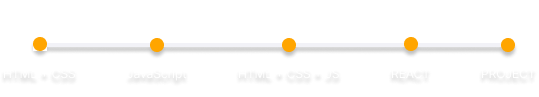
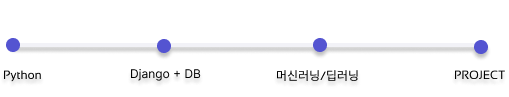
장고, 기디 파트 이미지 수정,로그인 페이지 추가

diff --git a/src/components/Apply/Apply.jsx b/src/components/Apply/Apply.jsx
@@ -1,0 +1,49 @@
+import React, { useState } from 'react';
+import RecruitmentForm from './RecruitmentForm';
+
+const Apply = () => {
+  const [activeForm, setActiveForm] = useState(null); // 초기값 null
+
+  const adminFields = [
+    { name: 'adminName', label: '이름', type: 'text', placeholder: '이름을 입력하세요' },
+    { name: 'adminContact', label: '연락처', type: 'text', placeholder: '연락처를 입력하세요' },
+    { name: 'adminPosition', label: '지원 분야', type: 'text', placeholder: '지원 분야를 입력하세요' },
+    { name: 'adminEmail', label: '이메일', type: 'email', placeholder: '이메일 주소를 입력하세요' },
+    { name: 'adminExperience', label: '경력', type: 'textarea', placeholder: '경력을 입력하세요' },
+  ];
+
+  const cubFields = [
+    { name: 'cubName', label: '이름', type: 'text', placeholder: '이름을 입력하세요' },
+    { name: 'cubAge', label: '학번', type: 'number', placeholder: '학번을 입력해주세요.' },
+    { name: 'cubInterest', label: '전공', type: 'text', placeholder: '전공을 입력하세요' },
+    { name: 'cubInterest', label: '관심 분야', type: 'text', placeholder: '관심 분야를 입력하세요' },
+    { name: 'cubEmail', label: '이메일', type: 'email', placeholder: '이메일 주소를 입력하세요' },
+    
+  ];
+
+
+  return (
+    <div className="flex flex-col items-center p-8">
+      <h1 className="text-3xl font-bold mb-8">모집 지원</h1>
+      <div className="flex space-x-4 mb-8">
+        <button
+          onClick={() => setActiveForm('admin')}
+          className={`px-6 py-3 rounded-lg border border-gray-300 hover:border-gray-500 ${activeForm === 'admin' ? 'bg-blue-500 text-white' : 'bg-white'}`}
+        >
+          운영진 모집
+        </button>
+        <button
+          onClick={() => setActiveForm('cub')}
+          className={`px-6 py-3 rounded-lg border border-gray-300 hover:border-gray-500 ${activeForm === 'cub' ? 'bg-blue-500 text-white' : 'bg-white'}`}
+        >
+          아기사자 모집
+        </button>
+      </div>
+      {activeForm && (
+        <RecruitmentForm title={activeForm === 'admin' ? '운영진 모집' : '아기사자 모집'} fields={activeForm === 'admin' ? adminFields : cubFields} />
+      )}
+    </div>
+  );
+};
+
+export default Apply;

diff --git a/src/components/Login/Login.jsx b/src/components/Login/Login.jsx
@@ -1,0 +1,44 @@
+import React from 'react';
+
+const LoginPage = () => {
+  return (
+    <div className="min-h-screen flex items-center justify-center bg-gray-100">
+      <div className="bg-white p-8 rounded shadow-md w-96">
+        <h2 className="text-3xl font-bold text-boldBlack mb-6 text-center">로그인</h2>
+        <form> {/* onSubmit 이벤트 제거 */}
+          <div className="mb-4">
+            <label htmlFor="email" className="block text-gray-700 font-medium mb-2">이메일</label>
+            <input
+              type="email"
+              id="email"
+              className="w-full px-3 py-2 border border-gray-300 rounded focus:outline-none focus:ring-realOrange focus:border-realOrange"
+              placeholder="이메일 주소를 입력하세요"
+            />
+          </div>
+          <div className="mb-6">
+            <label htmlFor="password" className="block text-gray-700 font-medium mb-2">비밀번호</label>
+            <input
+              type="password"
+              id="password"
+              className="w-full px-3 py-2 border border-gray-300 rounded focus:outline-none focus:ring-realOrange focus:border-realOrange"
+              placeholder="비밀번호를 입력하세요"
+            />
+          </div>
+          <div className="mb-4">
+            <button
+              type="button" 
+              className="w-full bg-realOrange text-white font-bold py-2 px-4 rounded hover:bg-orange-700 focus:outline-none focus:shadow-outline"
+            >
+              로그인
+            </button>
+          </div>
+          <div className="text-center text-gray-500 text-xs">
+            <p>계정이 없으신가요? <a href="#" className="text-realOrange hover:underline">회원가입</a></p>
+          </div>
+        </form>
+      </div>
+    </div>
+  );
+};
+
+export default LoginPage;

diff --git a/src/components/Apply/RecruitmentForm.jsx b/src/components/Apply/RecruitmentForm.jsx
@@ -1,0 +1,41 @@
+import React from 'react';
+
+const RecruitmentForm = ({ title, fields }) => {
+  const realOrange = '#FF7710';
+  const boldBlack = '#1C1B1A';
+  const accentYellow = '#FFC600';
+
+  return (
+    <div className="p-8 bg-white rounded-lg shadow-md w-full max-w-lg mx-auto">
+      <h2 className="text-2xl font-bold mb-4 text-center text-boldBlack">{title}</h2> {/* 폰트 색상 변경 */}
+      <form>
+        {fields.map((field, index) => (
+          <div key={index} className="mb-4">
+            <label htmlFor={field.name} className="block text-gray-700 font-bold mb-2">
+              {field.label}
+            </label>
+            <input
+              type={field.type}
+              id={field.name}
+              name={field.name}
+              className="shadow appearance-none border border-gray-300 rounded w-full py-2 px-3 text-gray-700 leading-tight focus:outline-none focus:shadow-outline"
+              placeholder={field.placeholder}
+              required
+            />
+          </div>
+        ))}
+        <div className="flex justify-center mt-6">
+          <button
+            type="submit"
+            className="bg-realOrange hover:bg-orange-700 text-white font-bold py-2 px-4 rounded focus:outline-none focus:shadow-outline" // 색상 변수 사용
+            style={{ backgroundColor: realOrange }} // 색상 변수 사용
+          >
+            제출
+          </button>
+        </div>
+      </form>
+    </div>
+  );
+};
+
+export default RecruitmentForm;

diff --git a/src/App.js b/src/App.js
@@ -10,6 +10,8 @@ import ArchivingDetail from "./pages/archivingDetail";
 import { BrowserRouter as Router, Routes, Route, Link } from "react-router-dom";
 import Members from "./components/Members";
 import About from "./about/About";
+import Apply from "./components/Apply/Apply";
+import Login from "./components/Login/Login";
 
 function App() {
   const [isMobileMenuOpen, setIsMobileMenuOpen] = useState(false);
@@ -45,6 +47,8 @@ function App() {
           <Route path="/about" element={<About />} />
           <Route path="/administrations" element={<Administration />} />
           <Route path="/members" element={<Members />} />
+          <Route path="/apply" element={<Apply />} />
+          <Route path="/Login" element={<Login />} />
         </Routes>
       </Layout>
     </Router>

diff --git a/src/components/Layout.jsx b/src/components/Layout.jsx
@@ -10,10 +10,10 @@ const Layout = ({ children }) => {
   };
 
   return (
-    <div className="container min-h-screen bg-grey-200 flex flex-col  max-w-4xl mx-auto p-5">
+    <div className="container min-h-screen text-black bg-gray-200 flex flex-col  max-w-4xl mx-auto p-5">
       
         <nav
-          className={`bg-orange-500 p-2 rounded-lg shadow-md max-w-4xl mx-auto mt-4 fixed top-0 left-0 right-0 z-10 transition-all ${
+          className={`bg-orange-500 p-2 rounded-lg shadow-md max-w-4xl mx-auto mt-4 fixed  top-0 left-0 right-0 z-10 transition-all opacity-70 ${
             isNavSticky ? "shadow-lg" : ""
           }`}
         >

diff --git a/src/about/About.jsx b/src/about/About.jsx
@@ -44,7 +44,7 @@ export default function About() {
 
   return (
     <div className="flex flex-col items-center justify-center min-h-screen bg-gray-100 p-4">
-      <h1 className="text-2xl md:text-3xl lg:text-4xl xl:text-6xl font-bold mb-8 text-center text-orange-500">
+      <h1 className="text-2xl md:text-3xl lg:text-4xl xl:text-6xl font-bold mb-8 text-center text-orange-500 p-5">
         <span className="text-orange-600">멋사</span> 커리큘럼
       </h1>
 
